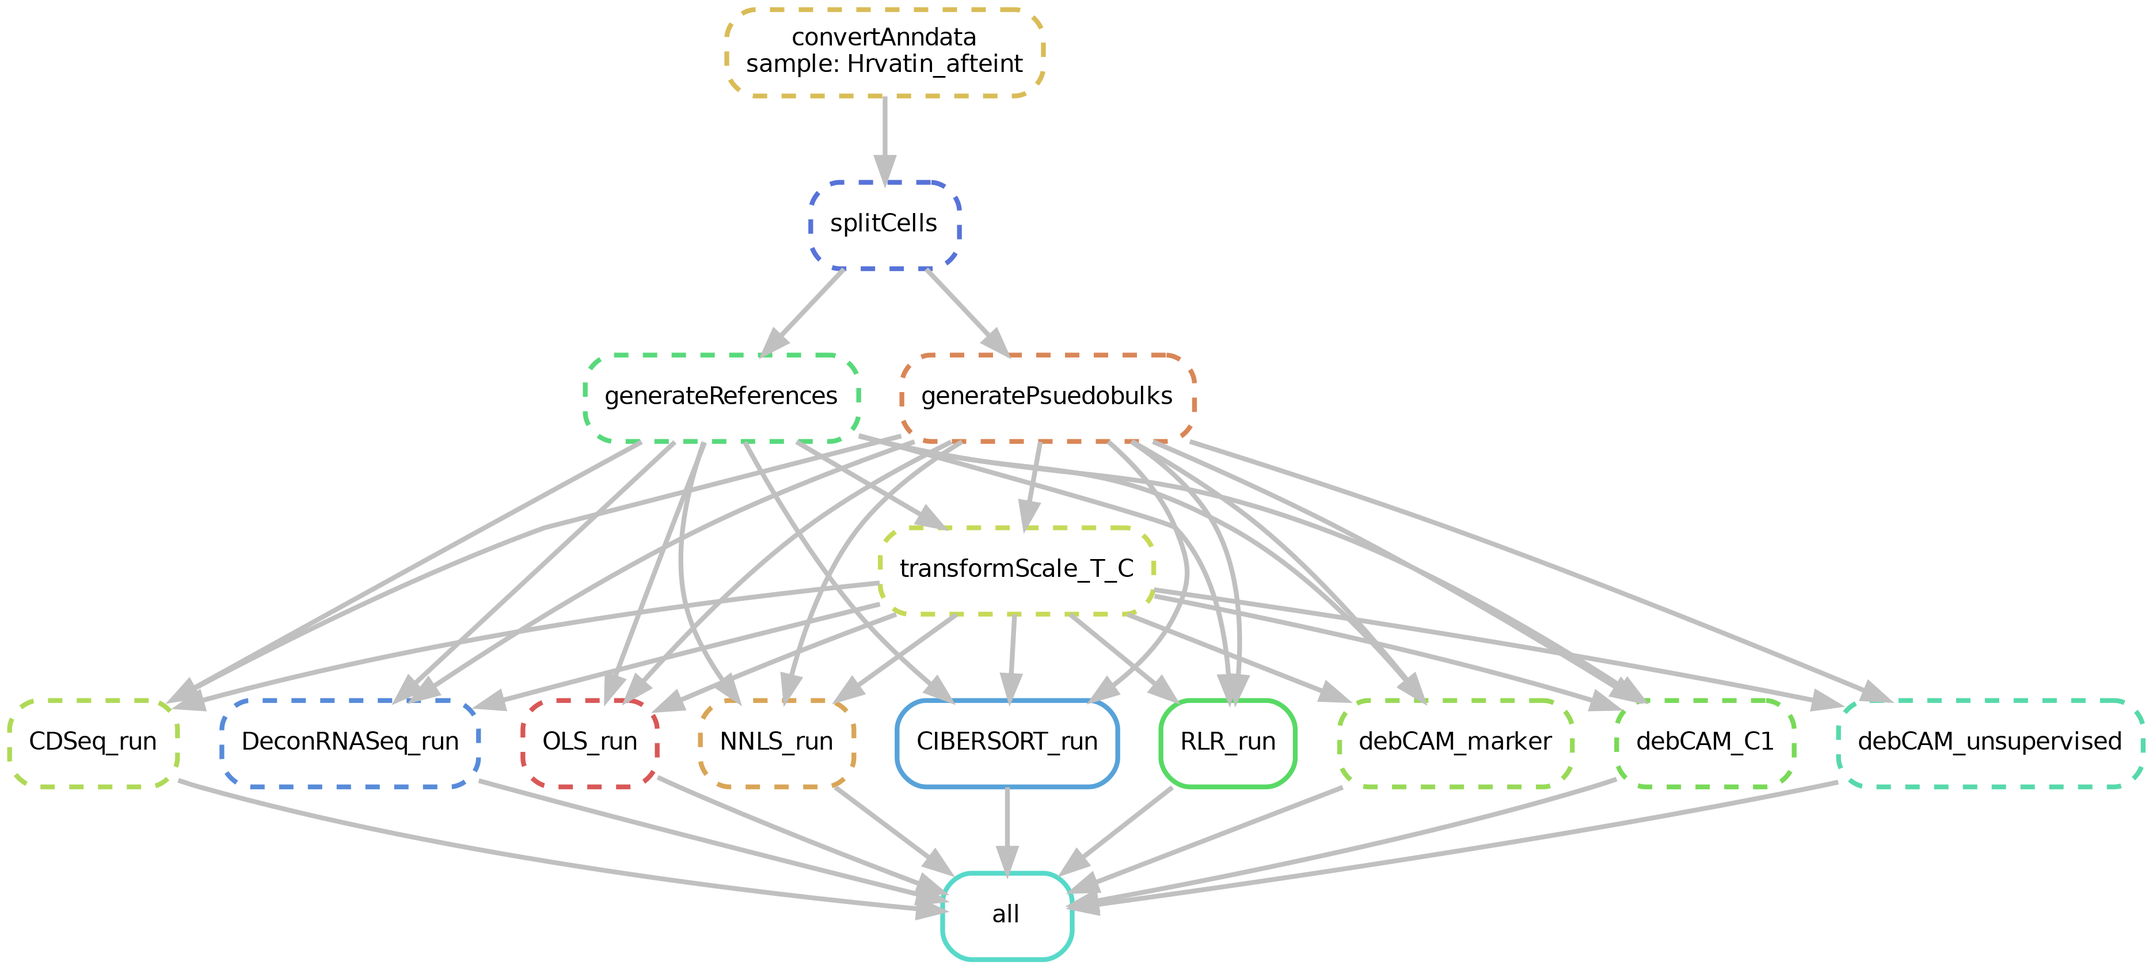
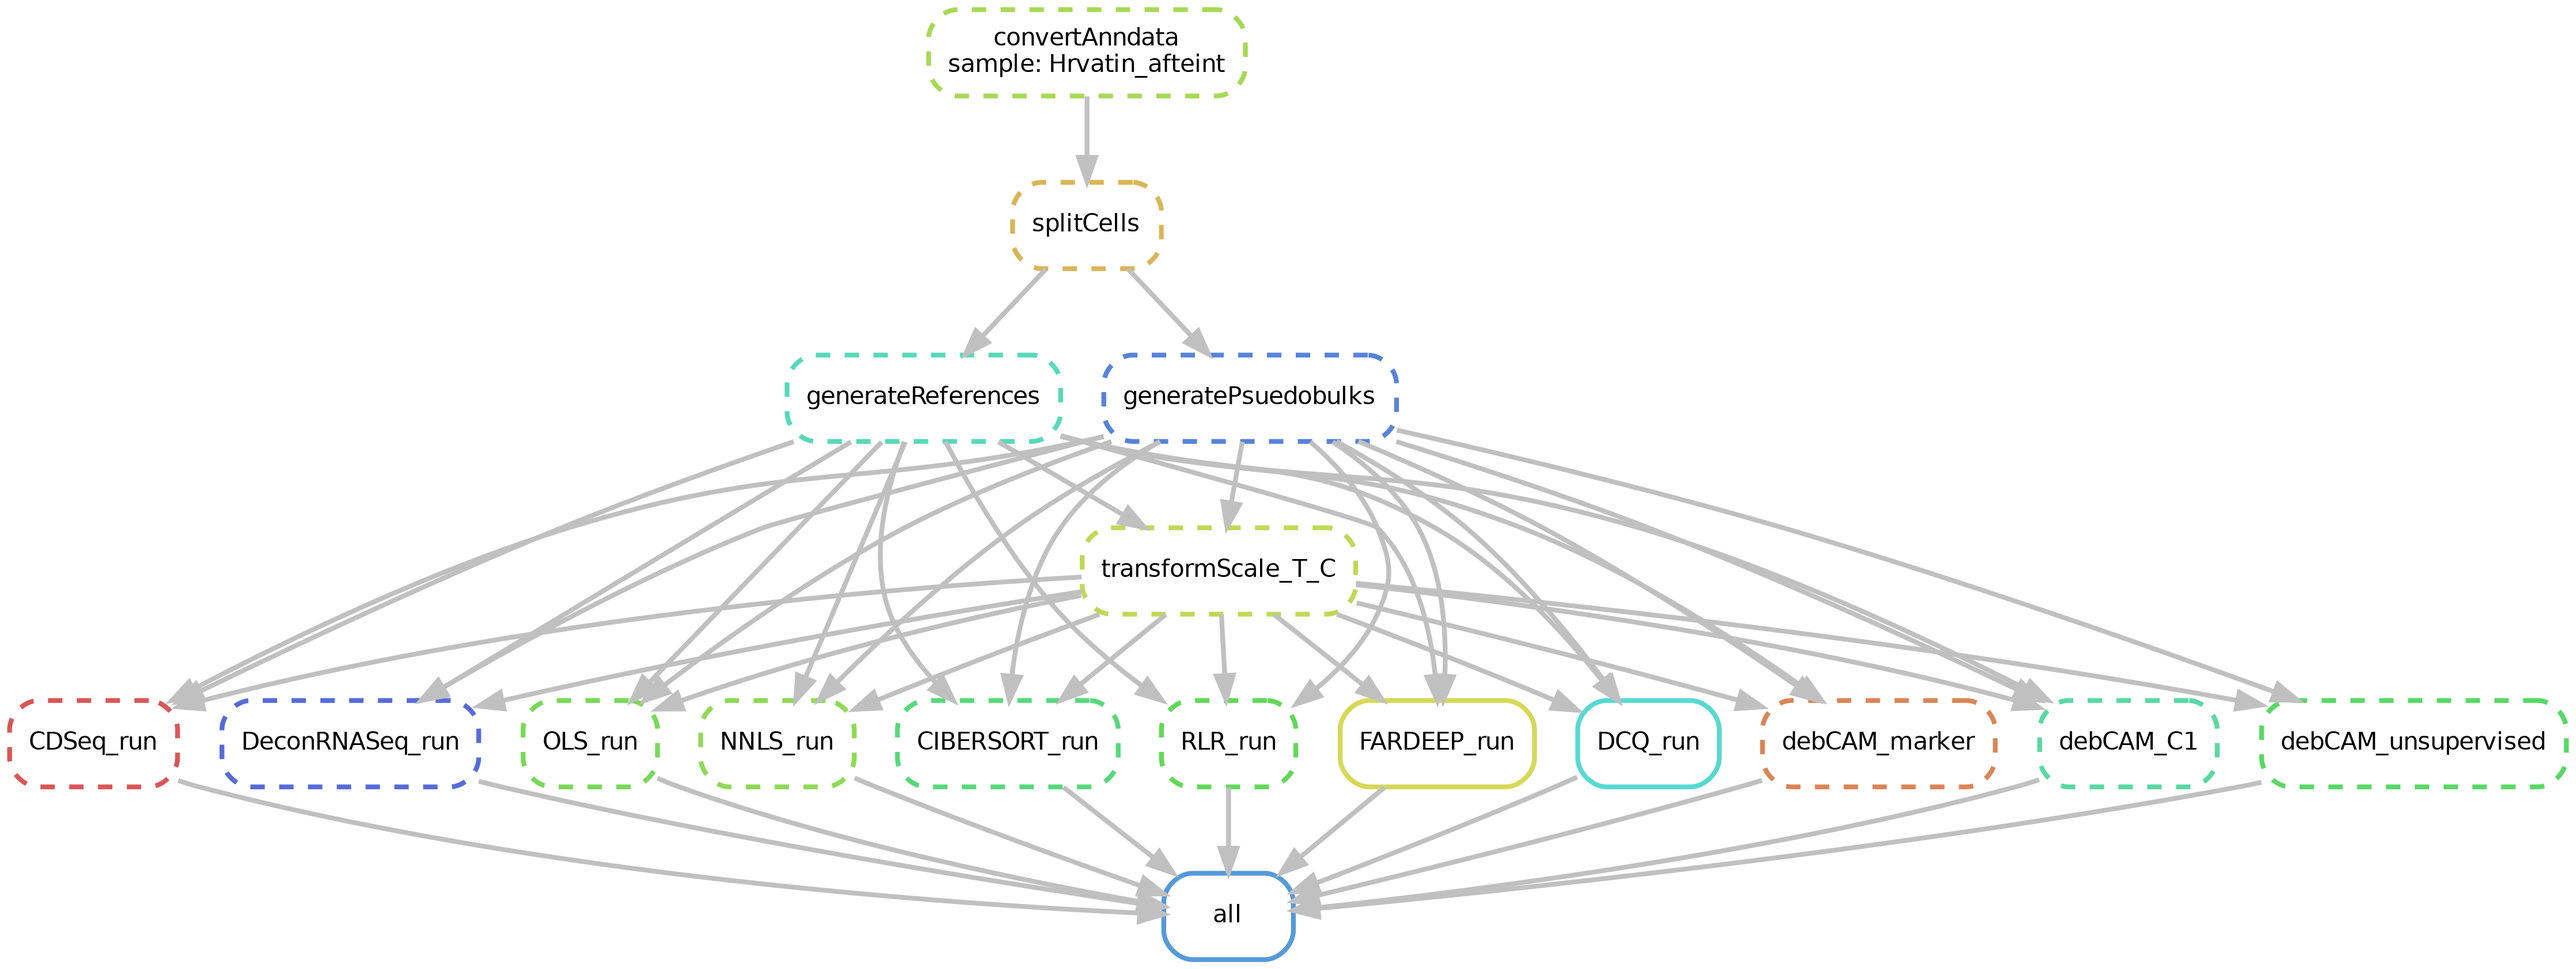
New method: implemented FARDEEP

diff --git a/README.md b/README.md
@@ -34,7 +34,7 @@
 	"DeconRNASeq" - DONE
 	"OLS" - DONE
 	"nnls" - DONE
-	"FARDEEP" - LONG RUNTIME, STILL I.P.
+	"FARDEEP" - DONE
 	"RLR" - DONE
 	"DCQ"
 	"elasticNet"
